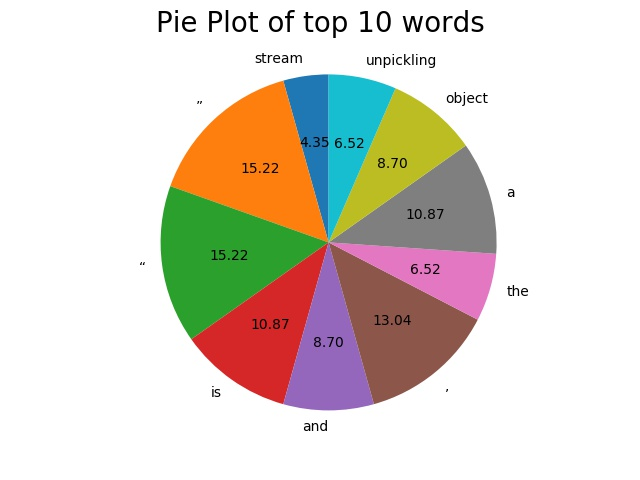
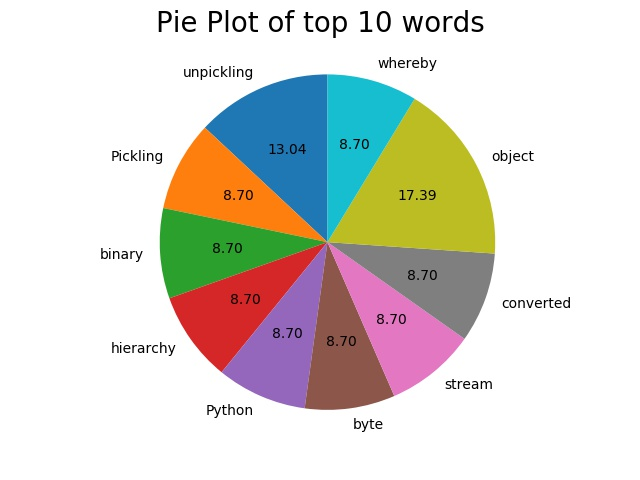
removing stopwords

diff --git a/TextVisualization.py b/TextVisualization.py
@@ -5,9 +5,11 @@ import collections
 from wordcloud import WordCloud, ImageColorGenerator
 import matplotlib.pyplot as plt
 from PIL import Image
+from string import punctuation
 
-set(stopwords.words('english'))
+stop_words = set(stopwords.words("english")+['”','“'])
 saved_img_path = "/media/ekbana/ekbana500/MY GITHUB/Text-Visualization/saved_img/"
+
 class TextVisualization:
     def __init__(self,text=None,image_path=None,top_n=10,save_img=False):
         self.text = text
@@ -15,10 +17,12 @@ class TextVisualization:
         self.save_img = save_img
         self.stopwords = set(stopwords.words('english'))
         self.image_path = image_path
-        self.word_list = nltk.word_tokenize(self.text)
+        self.word_list = [w for w in nltk.word_tokenize(self.text) if w not in stop_words and w not in punctuation]
         self.freq = collections.Counter(self.word_list)
         self.freq_dict = dict(self.freq)
 
+    def word_freq(self):
+        return self.freq_dict
 
     def word_cloud(self):
         text = " ".join([(k + " ") * v for k, v in self.freq_dict.items()])
